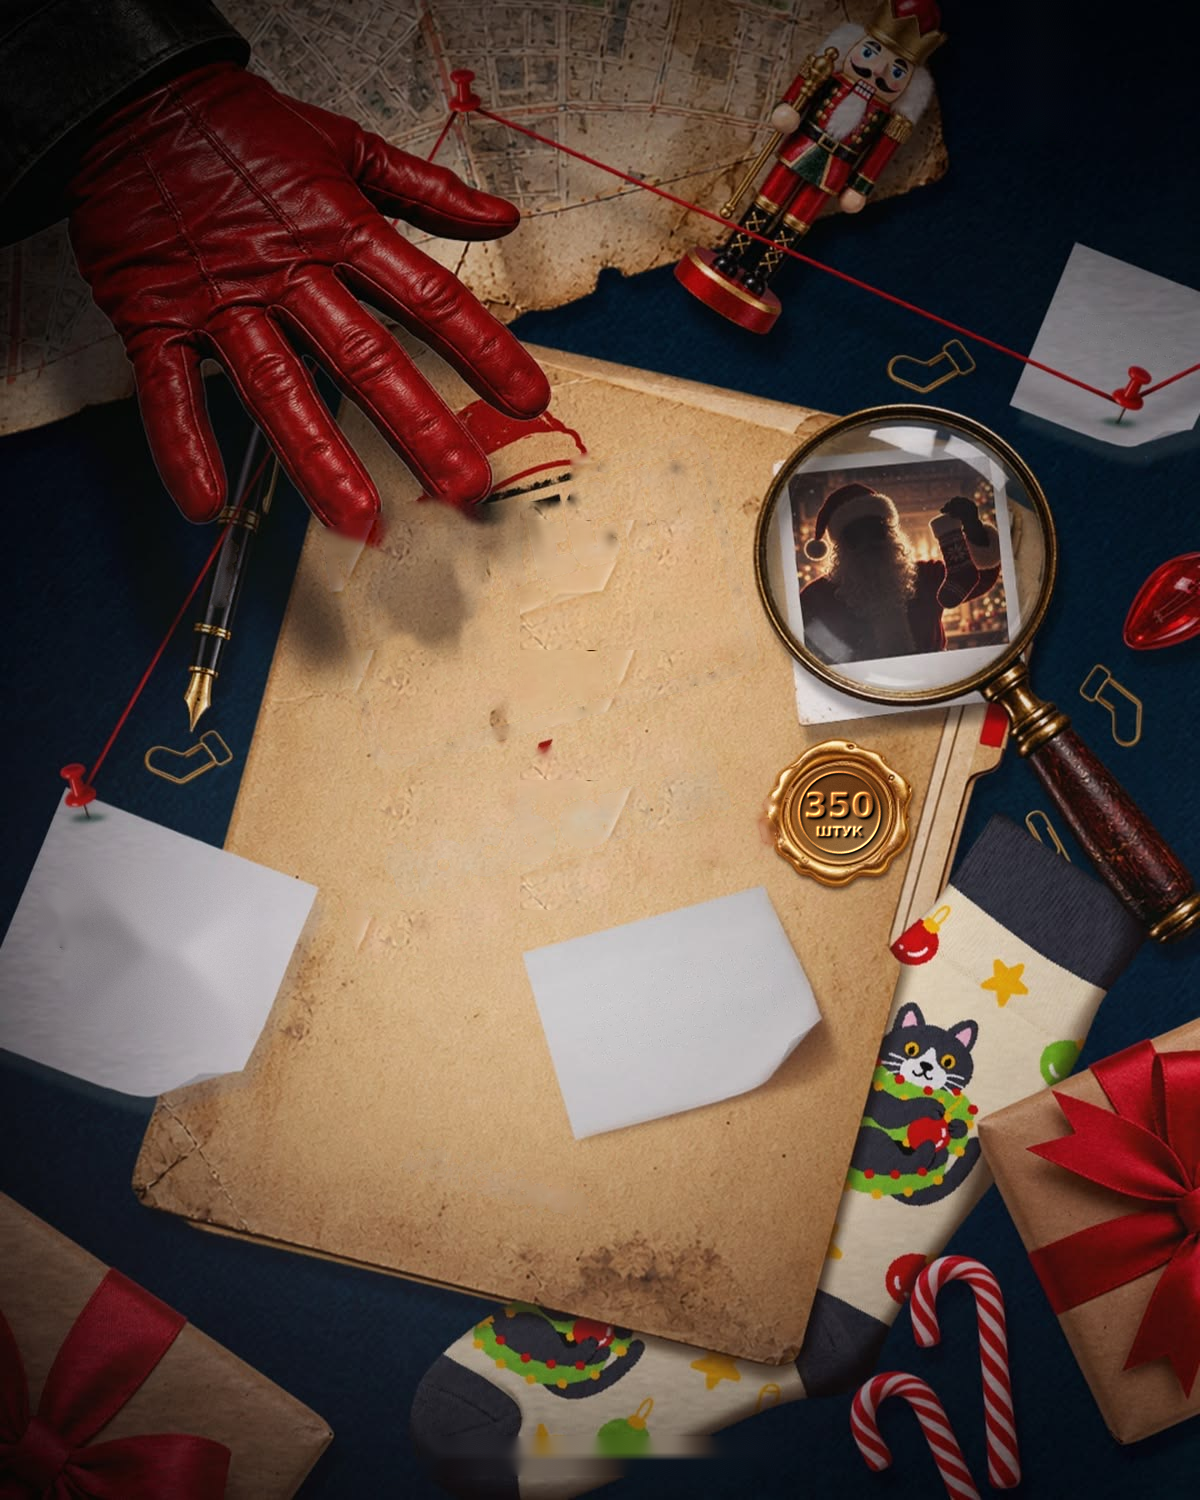
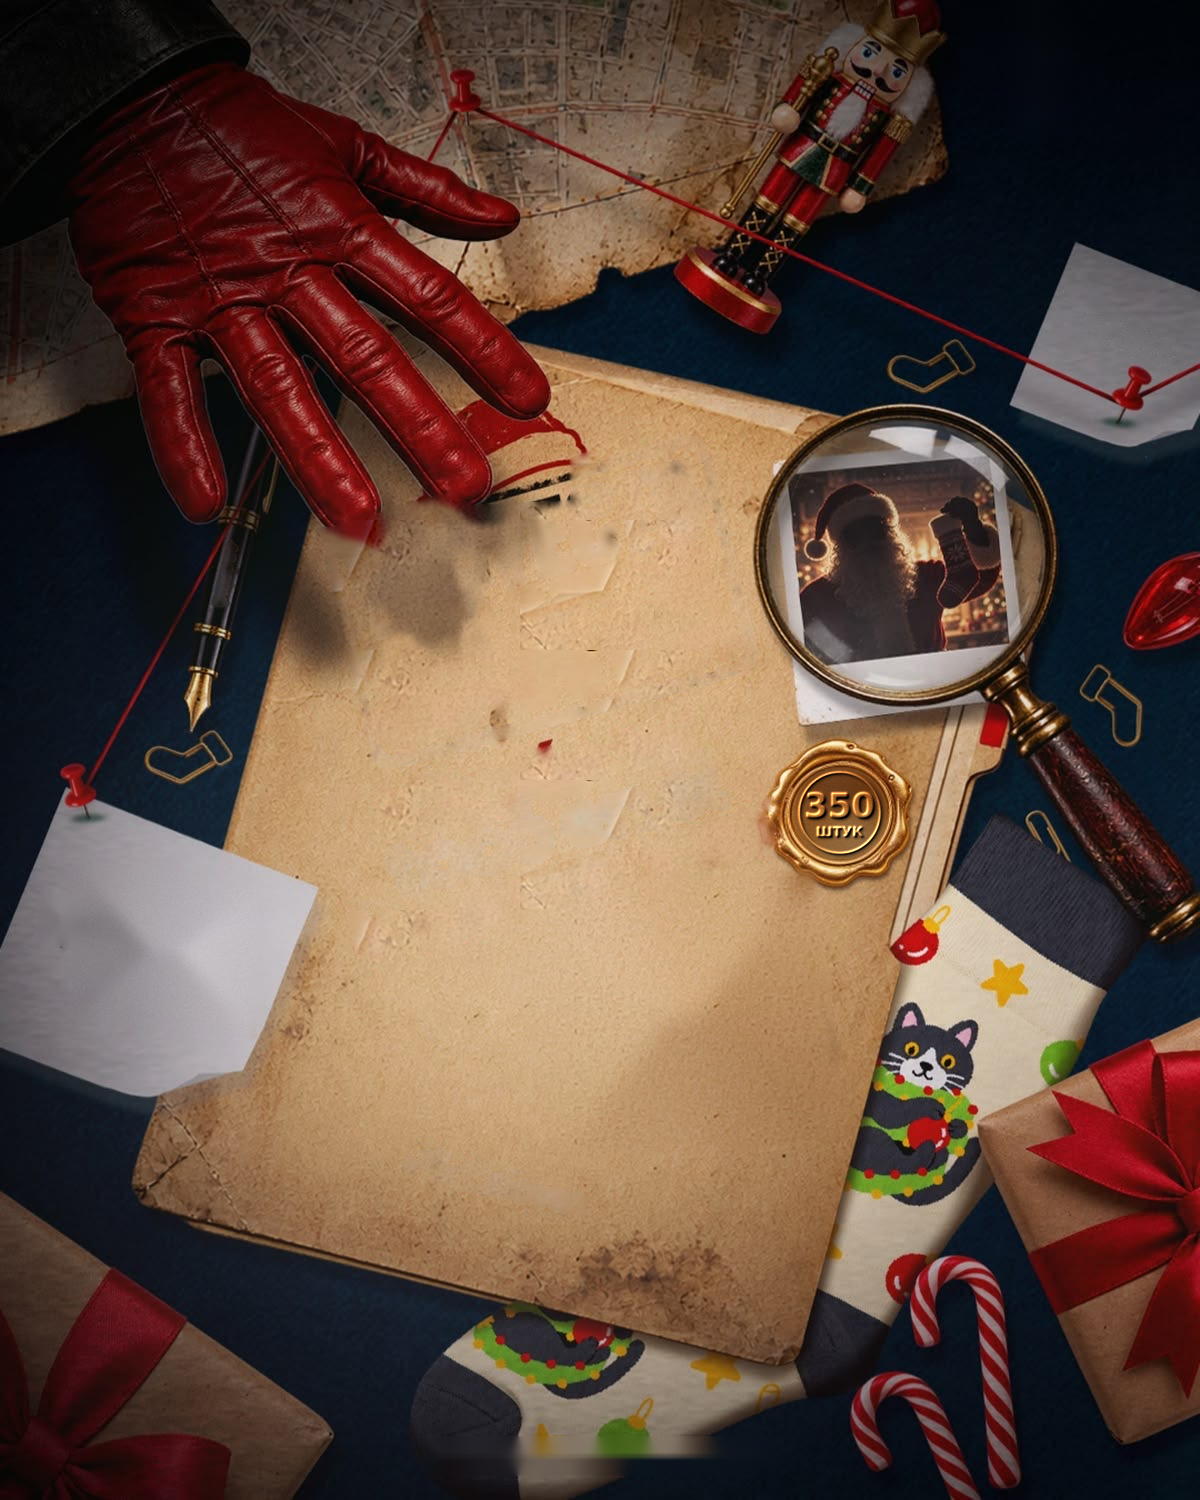
Add event program and lucky ticket rules to dossier poster
Claude-Session: https://claude.ai/code/session_01LLSo5JLaudvGqWrWmnB6UY

Changed region(s): [[0.4317, 0.5827, 0.7092, 0.7667]]

diff --git a/posters/disco90_dossier.html b/posters/disco90_dossier.html
@@ -1,5 +1,5 @@
 <!doctype html><html lang="ru"><head><meta charset="utf-8">
-<link href="https://fonts.googleapis.com/css2?family=Oswald:wght@700&family=Montserrat:wght@300;700;900&family=Caveat:wght@600;700&display=swap" rel="stylesheet">
+<link href="https://fonts.googleapis.com/css2?family=Oswald:wght@700&family=Montserrat:wght@300;700;900&family=Caveat:wght@600;700&family=PT+Mono:wght@400;700&display=swap" rel="stylesheet">
 <style>
 *{margin:0;padding:0;box-sizing:border-box}
 body{width:1200px;height:1500px;overflow:hidden}
@@ -24,20 +24,35 @@ body{width:1200px;height:1500px;overflow:hidden}
  background:radial-gradient(circle at 40% 35%,#f3d27a 0,#d9a545 45%,#a8741f 100%);box-shadow:inset 0 0 0 4px rgba(120,80,20,.35),inset 3px 4px 8px rgba(255,235,170,.6),inset -4px -6px 10px rgba(90,55,10,.6);
  display:flex;align-items:center;justify-content:center;transform:rotate(-8deg)}
 .seal b{font:900 34px 'Montserrat';color:#c99a3c;text-shadow:-1px -1px 1px rgba(255,236,180,.95),2px 2px 2px rgba(90,50,10,.8)}
+
+.dos{left:318px;top:1004px;width:500px;transform:rotate(9deg);transform-origin:left top;font:700 17px/1.34 'PT Mono',monospace;color:#16202e;mix-blend-mode:multiply;filter:url(#type)}
+.dos .h{font-weight:700;font-size:20px;letter-spacing:3px;color:#9d1c1e;border-bottom:2px solid rgba(157,28,30,.7);display:inline-block;margin-bottom:5px}
+.dos .r2{margin-top:8px;color:#9d1c1e;font-size:15.5px}
+.logo2{right:34px;top:26px;display:flex;align-items:center;gap:10px;color:#fff;filter:drop-shadow(0 2px 6px rgba(0,0,0,.6))}
+.logo2 img{height:48px;filter:brightness(0) invert(1)}
+.logo2 .t1{font:300 12.5px 'Montserrat';letter-spacing:1px}.logo2 .t2{font:700 21px 'Montserrat';margin-top:3px}
 </style></head><body><div class="p">
 <svg width="0" height="0" style="position:absolute">
  <filter id="rubber" x="-5%" y="-5%" width="110%" height="110%"><feTurbulence type="fractalNoise" baseFrequency=".06 .1" numOctaves="4" seed="11" result="n"/>
   <feColorMatrix in="n" type="matrix" values="0 0 0 0 0 0 0 0 0 0 0 0 0 0 0 0 0 0 -1.5 1.55" result="m"/>
   <feTurbulence type="fractalNoise" baseFrequency=".9" numOctaves="2" seed="3" result="f"/><feDisplacementMap in="SourceGraphic" in2="f" scale="2.5" result="d"/>
   <feComposite in="d" in2="m" operator="in"/></filter>
- <filter id="ink"><feTurbulence type="fractalNoise" baseFrequency=".9" numOctaves="2" seed="4" result="n"/><feDisplacementMap in="SourceGraphic" in2="n" scale="1.2"/></filter>
+ <filter id="type"><feTurbulence type="fractalNoise" baseFrequency=".8" numOctaves="2" seed="6" result="n"/><feDisplacementMap in="SourceGraphic" in2="n" scale="1.1" result="d"/>
+<feTurbulence type="fractalNoise" baseFrequency=".05" numOctaves="2" seed="2" result="b"/><feColorMatrix in="b" type="matrix" values="0 0 0 0 0 0 0 0 0 0 0 0 0 0 0 0 0 0 -.5 1.25" result="bm"/><feComposite in="d" in2="bm" operator="in"/></filter>
+<filter id="ink"><feTurbulence type="fractalNoise" baseFrequency=".9" numOctaves="2" seed="4" result="n"/><feDisplacementMap in="SourceGraphic" in2="n" scale="1.2"/></filter>
 </svg>
 <img class="bg" src="bg_dossier2.png">
 <div class="a stamp"><div class="s1">ДИСКОТЕКА</div><hr><div class="s2">90-Х</div></div>
 <div class="a sub"><span class="r">Кто</span> <span class="n">вытянет</span><br><span class="n">счастливый</span><br><span class="r">билет?</span></div>
 <div class="a note" style="left:62px;top:900px;width:210px;font-size:36px;line-height:1;transform:rotate(6deg)">Счастливый<br>билет<br>…</div>
-<div class="a note" style="left:572px;top:958px;width:230px;font-size:38px;transform:rotate(-9deg)">5 подарков<br>от Деда<br>Мороза!!!</div>
 <div class="a note" style="left:1060px;top:310px;width:130px;font-size:30px;transform:rotate(9deg)">Дед Мороз</div>
-<div class="a brand"><img src="brics_emblem.png"><div><div class="t1">УНИВЕРСИТЕТСКИЙ</div><div class="t2">КОЛЛЕДЖ БРИКС</div></div></div>
+<div class="a dos"><div class="h">ПЛАН ОПЕРАЦИИ:</div>
+<div>— живая музыка и танцевальные выступления</div>
+<div>— интерактивные игры и командные батлы</div>
+<div>— сладости и подарки из 90-х</div>
+<div>— Дед Мороз и Снегурочка</div>
+<div>— дискотека под легендарные хиты 90-х</div>
+<div class="r2">На входе каждый студент получит билет<br>(350 шт.). В финале обладатели 5 счастливых<br>билетов получат подарки от Деда Мороза!</div></div>
+<div class="a logo2"><img src="brics_emblem.png"><div><div class="t1">УНИВЕРСИТЕТСКИЙ</div><div class="t2">КОЛЛЕДЖ БРИКС</div></div></div>
 <div class="a foot">31 ДЕКАБРЯ<span>●</span>ДИСКОТЕКА 90-Х ДО УТРА</div>
 </div><script>document.fonts.ready.then(()=>document.body.dataset.done=1)</script></body></html>

diff --git a/posters/make_seal.py b/posters/make_seal.py
@@ -59,3 +59,14 @@ num=cv2.GaussianBlur(im*w[...,None],(0,0),4);den=cv2.GaussianBlur(w,(0,0),4)[...
 fill=num/den+np.random.default_rng(2).normal(0,2,(H,W,1))
 f=cv2.GaussianBlur(m.astype(np.float32),(0,0),1.2)[...,None]
 cv2.imwrite(P+'bg_dossier2.png',np.clip(fill*f+im*(1-f),0,255).astype(np.uint8))
+
+# --- remove middle sticky note (replaced by typed program) ---
+im=cv2.imread(P+'bg_dossier2.png').astype(np.float32)
+nm=np.zeros((H,W),np.uint8);cv2.fillPoly(nm,[np.array([(512,925),(640,884),(808,876),(834,1080),(814,1138),(562,1154)])],255)
+nm=cv2.dilate(nm,np.ones((9,9),np.uint8))
+sm=cv2.resize(im,(W//4,H//4),interpolation=cv2.INTER_AREA).astype(np.uint8);ms=cv2.resize(nm,(W//4,H//4),interpolation=cv2.INTER_NEAREST)
+low=cv2.GaussianBlur(cv2.resize(cv2.inpaint(sm,ms,6,cv2.INPAINT_TELEA),(W,H),interpolation=cv2.INTER_CUBIC).astype(np.float32),(0,0),8)
+src=im[1000:1110,330:520];hp=src-cv2.GaussianBlur(src,(0,0),5)
+tile=np.tile(hp,(H//hp.shape[0]+1,W//hp.shape[1]+1,1))[:H,:W]
+f=cv2.GaussianBlur(nm.astype(np.float32),(0,0),4)[...,None]/255
+cv2.imwrite(P+'bg_dossier2.png',np.clip((low+tile)*f+im*(1-f),0,255).astype(np.uint8))
